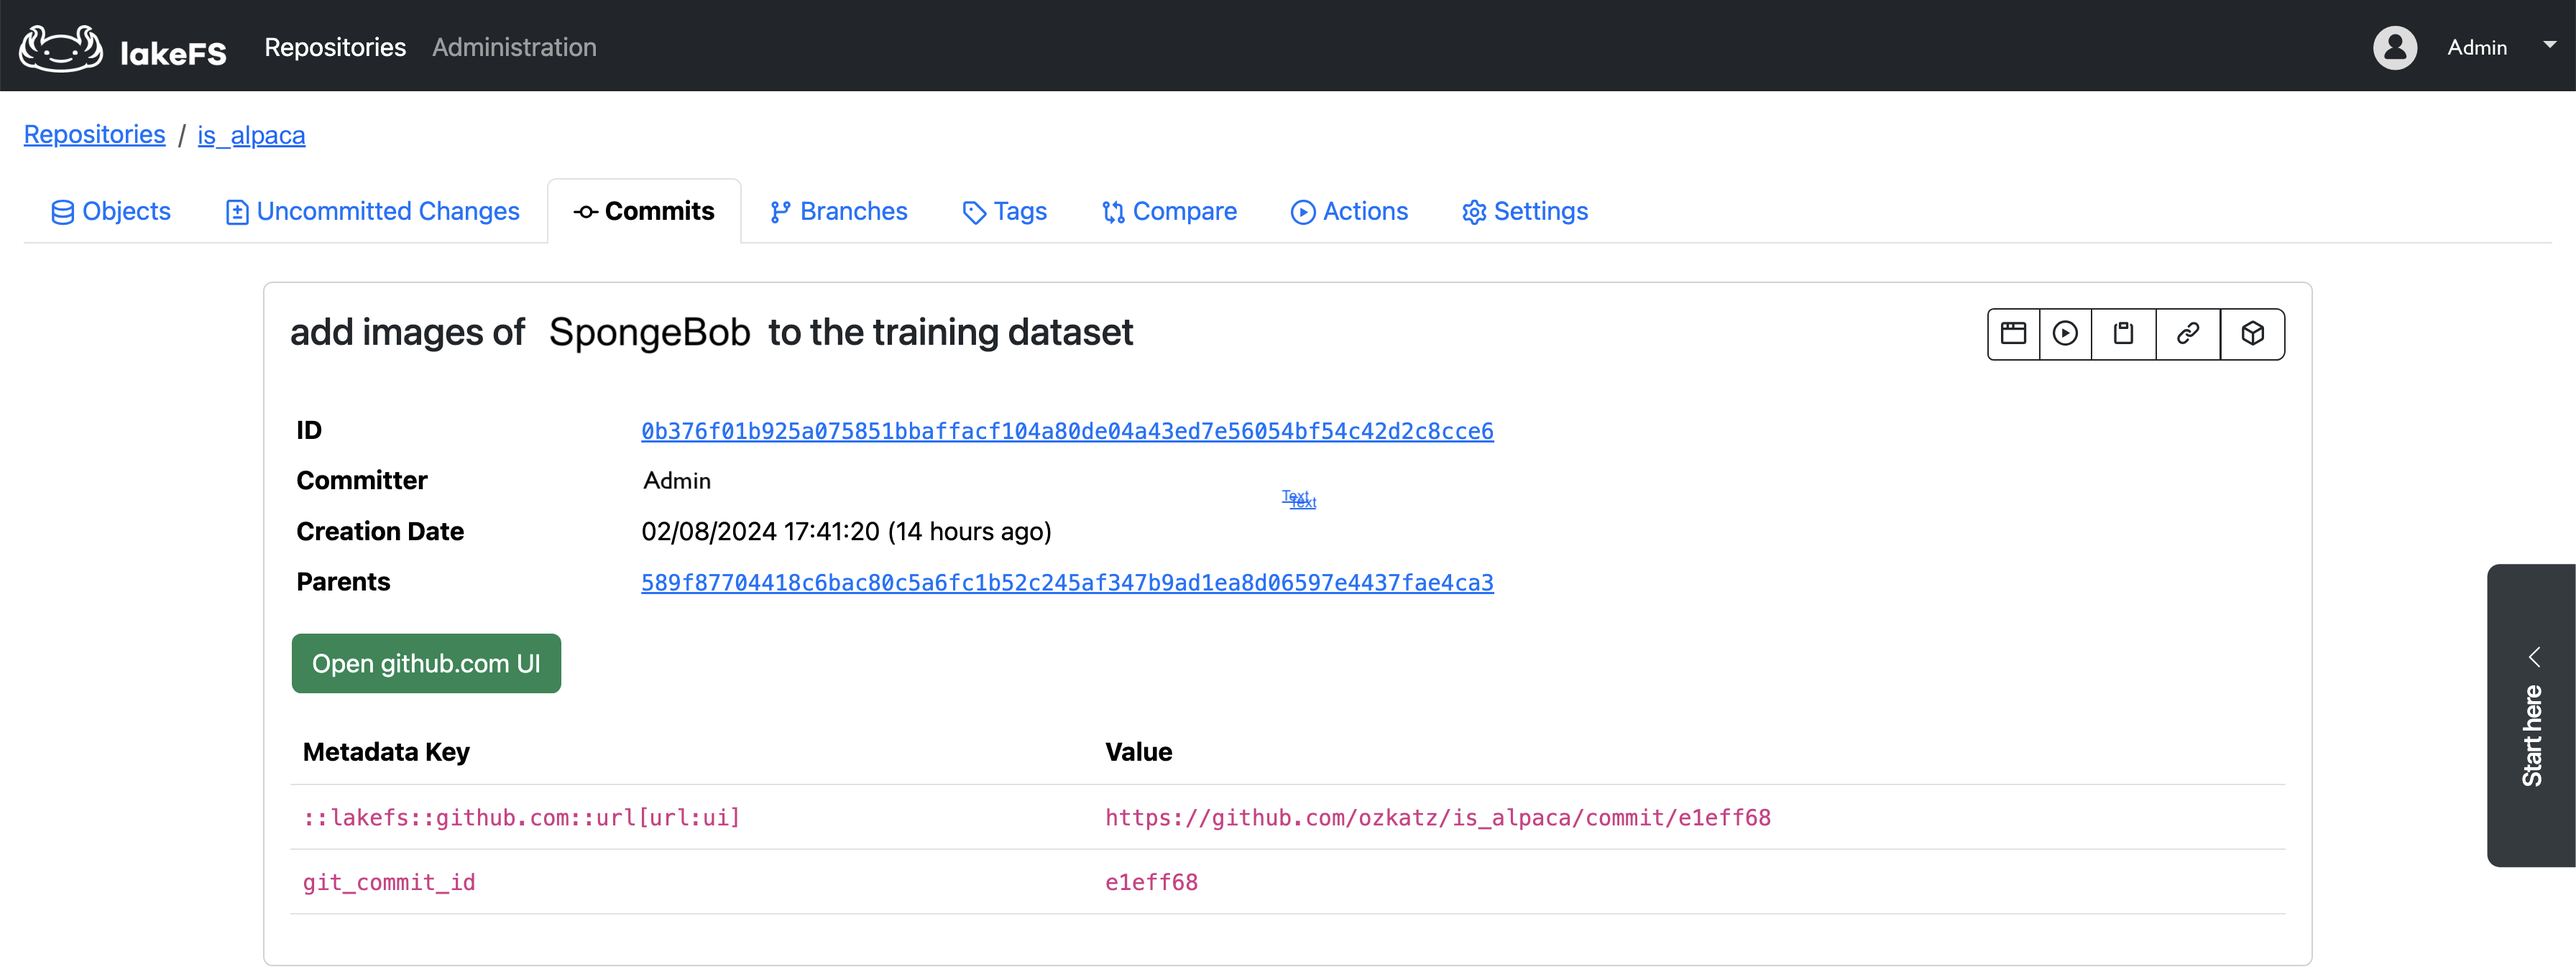
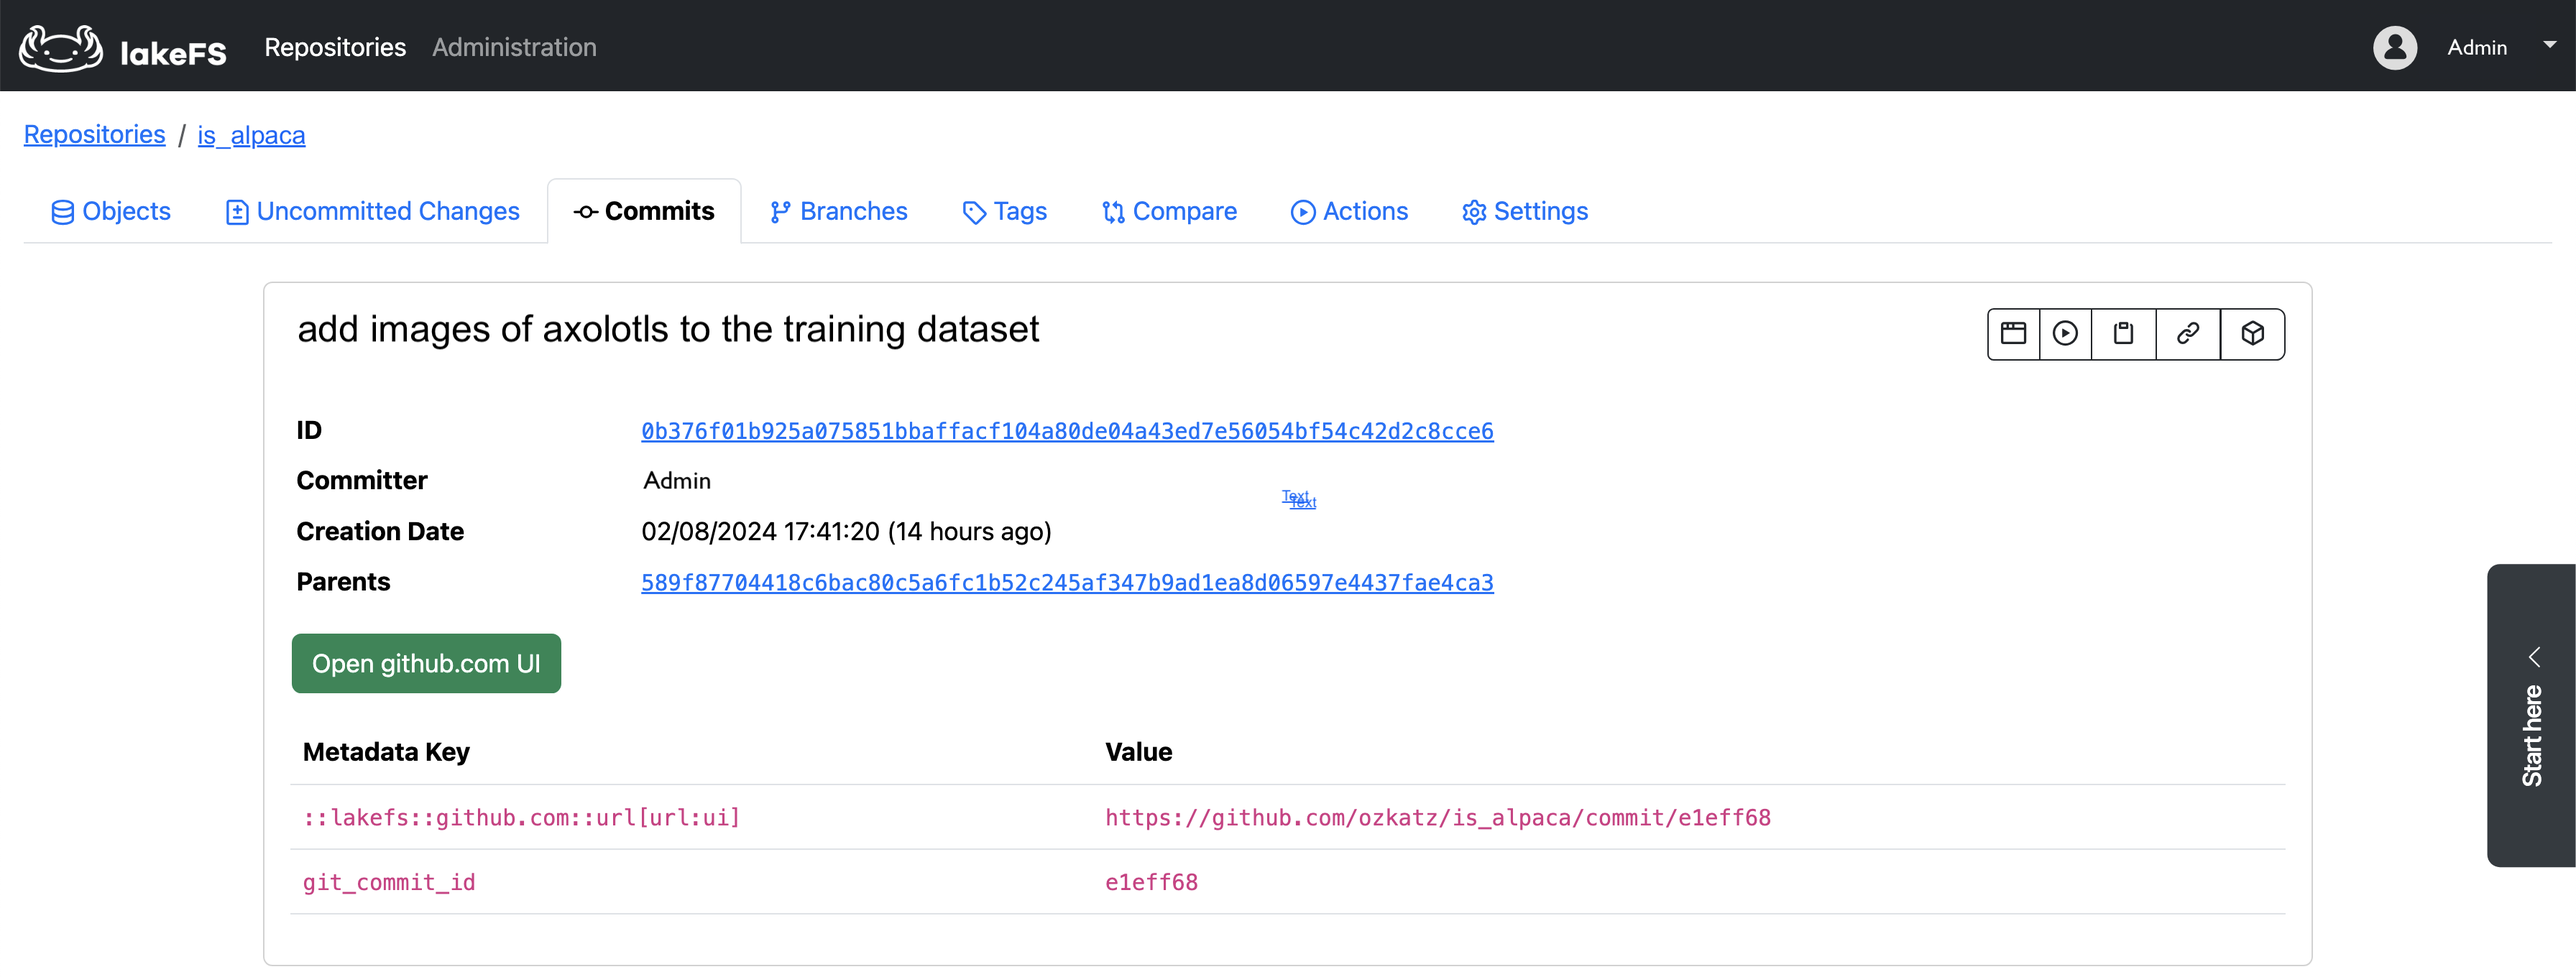
fix cr comments

Changed region(s): [[0.0938, 0.3088, 0.4375, 0.3706]]

diff --git a/docs/howto/local-checkouts.md b/docs/howto/local-checkouts.md
@@ -6,9 +6,13 @@ parent: How-To
 
 # Working with lakeFS Data Locally
 
-lakeFS is a scalable data version control system designed to scale to billions of objects, and as such it has no notion of
-"checking out" a branch. The larger the data, the less feasible it becomes to consume it from a single machine. However, 
-there are scenarios where checking out lakeFS data becomes essential. 
+lakeFS is a scalable data version control system designed to scale to billions of objects. The larger the data, the less
+feasible it becomes to consume it from a single machine. lakeFS addresses this challenge by enabling efficient management
+of large-scale data stored remotely. In addition to its capability to manage large datasets, lakeFS offers the flexibility
+to perform partial checkouts when necessary for working with specific portions of the data locally. 
+
+This page explains `lakectl local`, a command that lets you clone specific portions of lakeFS' data to your local environment, 
+and to keep remote and local locations in sync. 
 
 {% include toc.html %} 
 
@@ -20,16 +24,18 @@ The development of machine learning models is a dynamic and iterative process, i
 transformations, algorithms, and hyperparameters. To optimize this iterative workflow, experiments must be conducted with speed, 
 ease of tracking, and reproducibility in mind. Localizing the model data during development enhances the development process. 
 It **accelerates the development process** by enabling interactive and offline development and reducing data access latency. 
+
+
 The local availability of data is required to **seamlessly integrate data version control systems and source control systems**
 like Git. This integration is vital for achieving model reproducibility, allowing for a more efficient and collaborative 
 model development environment.
 
 ### Data Locality for Optimized GPU Utilization
 
-When executing deep learning tasks, GPUs, being valuable yet expensive resource, require efficient utilization. In the 
-context of running such programs, the goal is to optimize GPU usage and prevent them from sitting idle. Many deep learning
-tasks involve accessing images, and in some cases, the same images are accessed multiple times. Localizing the data can 
-eliminate redundant round trip times to access remote storage, resulting in cost savings.
+Training Deep Learning models requires expensive GPUs. In the context of running such programs, the goal is to optimize
+GPU usage and prevent them from sitting idle. Many deep learning tasks involve accessing images, and in some cases, the
+same images are accessed multiple times. Localizing the data can eliminate redundant round trip times to access remote 
+storage, resulting in cost savings.
 
 ## **lakectl local**: The way to work with lakeFS data locally  
 
@@ -41,17 +47,16 @@ Here are the available _lakectl local_ commands:
 
 | Command                                  | What it does                                                                                                                                        | Notes                                                                                                                                                                                                                     |
 |:-----------------------------------------|:----------------------------------------------------------------------------------------------------------------------------------------------------|:--------------------------------------------------------------------------------------------------------------------------------------------------------------------------------------------------------------------------|
-| **init**                                 | Connects between a local directory and a lakeFS remote URI to enable data sync                                                                      | To undo a directory init, delete the .lakefs_ref.yaml file created in the initialized directory                                                                                                                           |
-| **clone**                                | Clones lakeFS data from a path into an empty local directory and initializes the directory                                                          | A directory can only track a single lakeFS remote location. i.e., you cannot clone data into an already initialized directory                                                                                             |
-| **list**                                 | Lists directories that are synced with lakeFS | It is recommended to follow any _init_ or _clone_ command with a list command to verify its success |                                                                                                                                                                                                                           | 
-| **status**                               | Shows remote and local changes to the directory and the remote location it tracks                                                                   |                                                                                                                                                                                                                           | 
-| **commit**                               | Commits changes from local directory to the lakeFS branch it tracks                                                                                 | Uncommitted changes to directories connected to lakeFS remote locations will not reflect in lakeFS until after doing lakectl local _commit_.                                                                              | 
-| **pull**                                 | Fetches latest changes from a lakeFS remote location into a connected local directory                                                               |                                                                                                                                                                                                                           |
-| **checkout**                             | Syncs a local directory with the state of a lakeFS ref                                                                                              |                                                                                                                                                                                                                           |
+| **[init](../reference/cli.md#lakectl-local-init)**                                 | Connects between a local directory and a lakeFS remote URI to enable data sync                                                                      | To undo a directory init, delete the .lakefs_ref.yaml file created in the initialized directory                                                                                                                           |
+| **[clone](../reference/cli.md#lakectl-local-clone)**                                | Clones lakeFS data from a path into an empty local directory and initializes the directory                                                          | A directory can only track a single lakeFS remote location. i.e., you cannot clone data into an already initialized directory                                                                                             |
+| **[list](../reference/cli.md#lakectl-local-list)**                                 | Lists directories that are synced with lakeFS | It is recommended to follow any _init_ or _clone_ command with a list command to verify its success |                                                                                                                                                                                                                           | 
+| **[status](../reference/cli.md#lakectl-local-status)**                               | Shows remote and local changes to the directory and the remote location it tracks                                                                   |                                                                                                                                                                                                                           | 
+| **[commit](../reference/cli.md#lakectl-local-commit)**                               | Commits changes from local directory to the lakeFS branch it tracks                                                                                 | Uncommitted changes to directories connected to lakeFS remote locations will not reflect in lakeFS until after doing lakectl local _commit_.                                                                              | 
+| **[pull](../reference/cli.md#lakectl-local-pull)**                                 | Fetches latest changes from a lakeFS remote location into a connected local directory                                                               |                                                                                                                                                                                                                           |
+| **[checkout](../reference/cli.md#lakectl-local-checkout)**                             | Syncs a local directory with the state of a lakeFS ref                                                                                              |                                                                                                                                                                                                                           |
 
-For additional information see the [CLI reference](../reference/cli.md#lakectl-local). 
 
-**Note:** The data size you work with locally should be reasonable for smooth operation on a local machine.
+**Note:** The data size you work with locally should be reasonable for smooth operation on a local machine. 
 {: .note }
 
 ## Example: Using _lakectl local_ in tandem with Git 
@@ -88,8 +93,39 @@ which is under tuning.
 {: .no_toc}
 
 Inspecting the `train.py` script, we can see that it expects an input on the `input` directory.
+```python
+#!/usr/bin/env python
+import tensorflow as tf
 
-<img src="../assets/img/lakectl-local/train_script_internals.png" alt="Expected input location" width="600"/>
+input_location = './input'
+model_location = './models/is_alpaca.h5'
+
+def get_ds(subset):
+    return tf.keras.utils.image_dataset_from_directory(
+        input_location, validation_split=0.2, subset=subset,
+        seed=123, image_size=(244, 244), batch_size=32)
+
+train_ds = get_ds("training")
+val_ds = get_ds("validation")
+
+model = tf.keras.Sequential([
+    tf.keras.layers.Rescaling(1./255),
+    tf.keras.layers.Conv2D(32, 3, activation='relu'),
+    tf.keras.layers.MaxPooling2D(),
+    tf.keras.layers.Conv2D(32, 3, activation='relu'),
+    tf.keras.layers.MaxPooling2D(),
+    tf.keras.layers.Conv2D(32, 3, activation='relu'),
+    tf.keras.layers.MaxPooling2D(),
+    tf.keras.layers.Flatten(),
+    tf.keras.layers.Dense(128, activation='relu'),
+    tf.keras.layers.Dense(2)])
+
+# Fit and save
+loss_fn = tf.keras.losses.SparseCategoricalCrossentropy(from_logits=True)
+model.compile(optimizer='adam', loss=loss_fn, metrics=['accuracy'])
+model.fit(train_ds, validation_data=val_ds, epochs=3)
+model.save(model_location)
+```
 
 This means that to be able to locally develop our model and experiment with it we need to have the _is_alpaca_ dataset managed
 by lakeFS available locally on that path. To do that, we will use the [`lakectl local clone`](../reference/cli.md#lakectl-local-clone) 
@@ -160,21 +196,21 @@ By committing to Git, we tie the current code version of the model to the datase
 ### Experiment and Version Results  
 {: .no_toc}
 
-We ran the train script on the cloned input, and it generated a model. Now, let's use the model to predict whether **SpongeBob** is an Alpaca.
+We ran the train script on the cloned input, and it generated a model. Now, let's use the model to predict whether an **axolotl** is an alpaca.
 
-A reminder - this is how SpongeBob looks like - not like an Alpaca!
+A reminder - this is how an axolotl looks like - not like an alpaca!
 
-<img src="../assets/img/lakectl-local/sponge-bob.png" alt="SpongeBob" width="300"/>
+<img src="../assets/img/lakectl-local/axolotl.png" alt="axolotl" width="300"/>
 
 Here are the (surprising) results:
 ```shell
-is_alpaca % ./predict.py ~/SpongeBob1.jpeg
+is_alpaca % ./predict.py ~/axolotl1.jpeg
 {'alpaca': 0.32112, 'not alpaca': 0.07260383}
 ```
 We expected the model to provide a more concise prediction, so let's try to improve it. To do that, we will add additional
-images of SpongeBob to the model input directory: 
+images of axolotls to the model input directory: 
 ```shell
-is_alpaca % cp ~/SpongeBob_images/* input/not_alpaca
+is_alpaca % cp ~/axolotls_images/* input/not_alpaca
 ```
 
 To inspect what changes we made to out dataset we will use [lakectl local status](../reference/cli.md#lakectl-local-status).
@@ -186,9 +222,9 @@ diff 'lakefs://is-alpaca/589f87704418c6bac80c5a6fc1b52c245af347b9ad1ea8d06597e44
 ╔════════╦════════╦════════════════════════════╗
 ║ SOURCE ║ CHANGE ║ PATH                       ║
 ╠════════╬════════╬════════════════════════════╣
-║ local  ║ added  ║ not_alpaca/SpongeBob2.jpeg ║
-║ local  ║ added  ║ not_alpaca/SpongeBob3.png  ║
-║ local  ║ added  ║ not_alpaca/SpongeBob4.jpeg ║
+║ local  ║ added  ║ not_alpaca/axolotl2.jpeg ║
+║ local  ║ added  ║ not_alpaca/axolotl3.png  ║
+║ local  ║ added  ║ not_alpaca/axolotl4.jpeg ║
 ╚════════╩════════╩════════════════════════════╝
 ```
 
@@ -197,14 +233,14 @@ area of our experiment branch and verifying it is empty.
 
 To commit these changes to lakeFS we will use [lakectl local commit](../reference/cli.md#lakectl-local-commit):
 ```shell
-is_alpaca % lakectl local commit input -m "add images of SpongeBob to the training dataset"
+is_alpaca % lakectl local commit input -m "add images of axolotls to the training dataset"
 
 Getting branch: experiment-1
 
 diff 'local:///ml_models/is_alpaca/input' <--> 'lakefs://is-alpaca/589f87704418c6bac80c5a6fc1b52c245af347b9ad1ea8d06597e4437fae4ca3/dataset/train/'...
-upload not_alpaca/SpongeBob3.png              ... done! [5.04KB in 679ms]
-upload not_alpaca/SpongeBob2.jpeg             ... done! [38.31KB in 685ms]
-upload not_alpaca/SpongeBob4.jpeg             ... done! [7.70KB in 718ms]
+upload not_alpaca/axolotl3.png              ... done! [5.04KB in 679ms]
+upload not_alpaca/axolotl2.jpeg             ... done! [38.31KB in 685ms]
+upload not_alpaca/axolotl4.jpeg             ... done! [7.70KB in 718ms]
 
 Sync Summary:
 
@@ -216,7 +252,7 @@ Finished syncing changes. Perform commit on branch...
 Commit for branch "experiment-1" completed.
 
 ID: 0b376f01b925a075851bbaffacf104a80de04a43ed7e56054bf54c42d2c8cce6
-Message: add images of SpongeBob to the training dataset
+Message: add images of axolotls to the training dataset
 Timestamp: 2024-02-08 17:41:20 +0200 IST
 Parents: 589f87704418c6bac80c5a6fc1b52c245af347b9ad1ea8d06597e4437fae4ca3
 ```
@@ -227,9 +263,9 @@ the linked Git repository at the time of the commit.
 
[1 lines of base64/hex data omitted]
 
-We will now re-train our model with the modified dataset and give a try to predict whether SpongeBob is an Alpaca: 
+We will now re-train our model with the modified dataset and give a try to predict whether an axolotl is an alpaca: 
 ```shell
-is_alpaca % ./predict.py ~/SpongeBob1.jpeg
+is_alpaca % ./predict.py ~/axolotl1.jpeg
 {'alpaca': 0.12443, 'not alpaca': 0.47260383}
 ```
 Results are indeed more accurate.
@@ -326,7 +362,7 @@ content from the directory.
 ### Reproduce Model Results  
 {: .no_toc}
 
-What if we wanted to re-run the model that predicted that SpongeBob is more likely to be an alpaca? 
+What if we wanted to re-run the model that predicted that an axolotl is more likely to be an alpaca? 
 This question translates into the question: "How do I roll back my code and data to the time before we optimized the train dataset?"
 Which translates to: "What was the Git commit ID at this point?"
 

diff --git a/docs/integrations/git.md b/docs/integrations/git.md
@@ -19,8 +19,8 @@ Maintain a comprehensive record of both model code versions and input data versi
 model results.
 
 The common way to develop reproducible ML models with lakeFS is to use the 
-[lakectl local](../reference/cli.md#lakectl-local) command. Use [this](../howto/local-checkouts.md#example-using-lakectl-local-in-tandem-with-git) 
-guide to understand how to use lakectl local in conjunction with Git to develop reproducible ML models.    
+[lakectl local](../reference/cli.md#lakectl-local) command. See [_Working with lakeFS Data Locally_](../howto/local-checkouts.md#example-using-lakectl-local-in-tandem-with-git) 
+to understand how to use lakectl local in conjunction with Git to develop reproducible ML models.    
 
 ### Develop Reproducible ETL Pipelines
 
